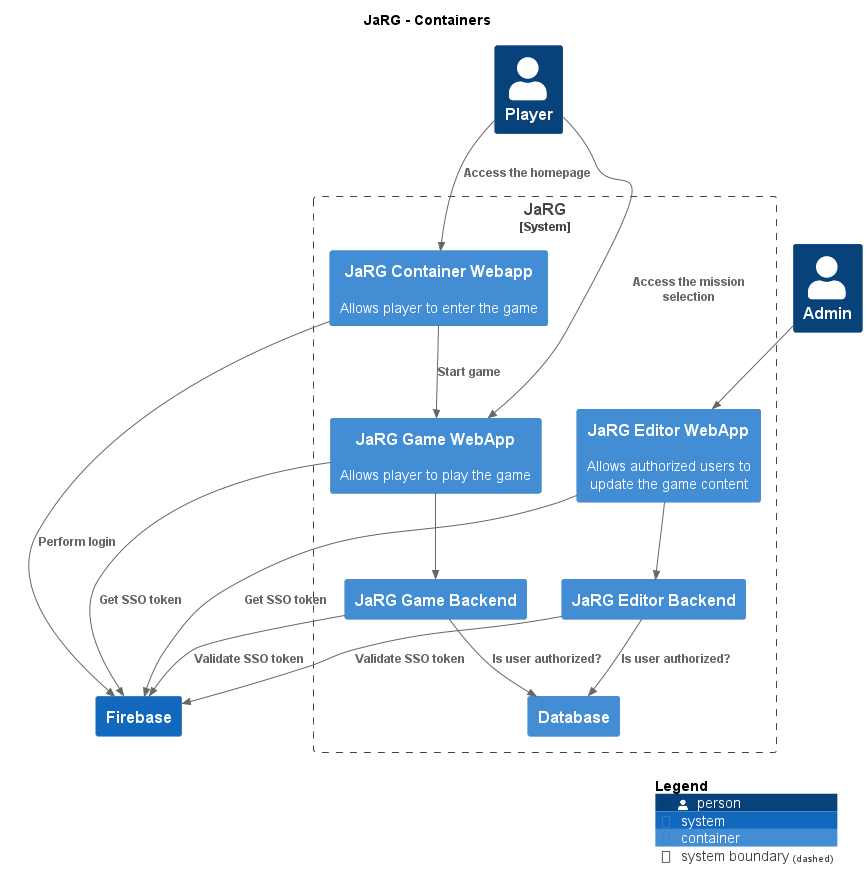
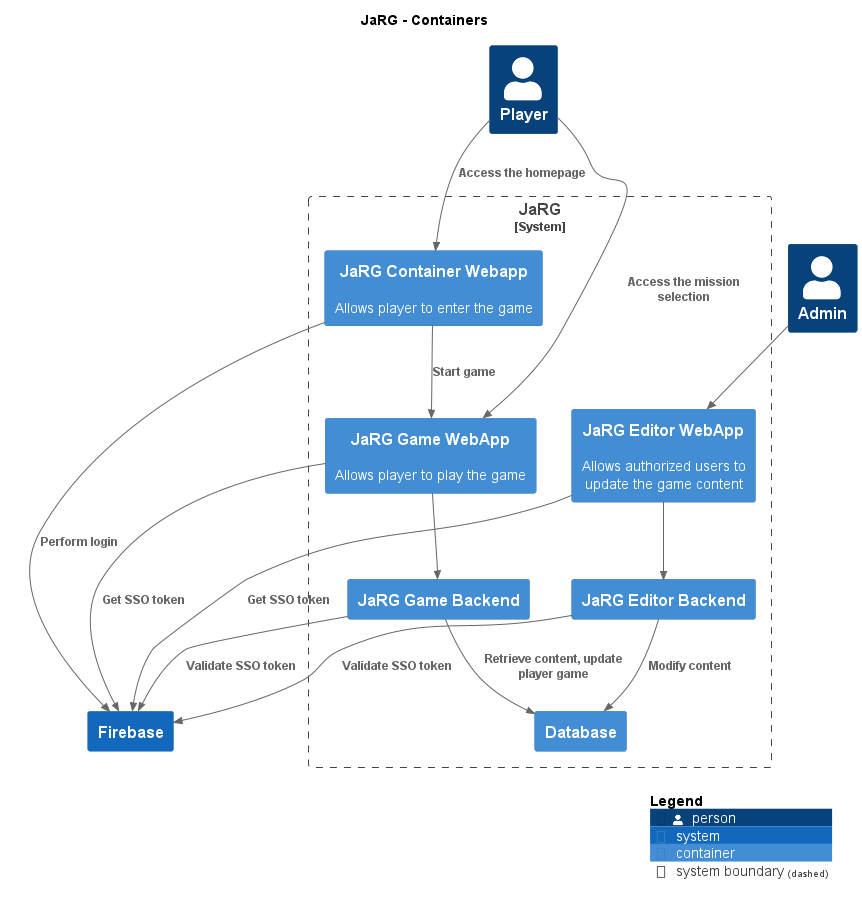
deployment view

diff --git a/docs/c4-model/software-systems/JaRG/README.md b/docs/c4-model/software-systems/JaRG/README.md
@@ -123,7 +123,7 @@ description: Component view of JaRG Game WebApp
 | JaRG | JaRG Editor Backend | Manages user accesses and grants | JaRG | JaRG Editor Backend | Verify SSO token |  |
 | JaRG | JaRG Editor Backend | Verify SSO token | JaRG | Database |  | Is user authorized? |
 | JaRG | JaRG Editor Backend | Verify SSO token | JaRG | Database | Users | Is user authorized? |
-| JaRG | JaRG Editor Backend |  | JaRG | Database |  | Is user authorized? |
+| JaRG | JaRG Editor Backend |  | JaRG | Database |  | Modify content |
 | JaRG | JaRG Editor Backend |  | JaRG | Database | Characters | Get user's missions |
 | JaRG | JaRG Editor Backend |  | JaRG | Database | Maps | Get user's missions |
 | JaRG | JaRG Editor Backend |  | JaRG | Database | Missions | Get user's missions |
@@ -155,7 +155,7 @@ description: Component view of JaRG Game WebApp
 | JaRG | JaRG Game Backend | Missions services | JaRG | JaRG Game Backend | Verify SSO token |  |
 | JaRG | JaRG Game Backend | Verify SSO token | JaRG | Database |  | Is user authorized? |
 | JaRG | JaRG Game Backend | Verify SSO token | JaRG | Database | Users | Is user authorized? |
-| JaRG | JaRG Game Backend |  | JaRG | Database |  | Is user authorized? |
+| JaRG | JaRG Game Backend |  | JaRG | Database |  | Retrieve content, update player game |
 | JaRG | JaRG Game Backend |  | JaRG | Database | Characters | Get user's missions |
 | JaRG | JaRG Game Backend |  | JaRG | Database | Maps | Get user's missions |
 | JaRG | JaRG Game Backend |  | JaRG | Database | Missions | Get user's missions |
@@ -218,7 +218,7 @@ description: Component view of JaRG Game WebApp
 | JaRG | JaRG Editor Backend |  | Firebase | Firebase Auth WebApp |  | Validate SSO token |
 | JaRG | JaRG Editor Backend |  | Firebase | Firebase Auth WebApp | User SSO token | Validate SSO token |
 | JaRG | JaRG Editor Backend |  | Firebase |  |  | Validate SSO token |
-| JaRG | JaRG Editor Backend |  | JaRG | Database |  | Is user authorized? |
+| JaRG | JaRG Editor Backend |  | JaRG | Database |  | Modify content |
 | JaRG | JaRG Editor Backend |  | JaRG | Database | Characters | Get user's missions |
 | JaRG | JaRG Editor Backend |  | JaRG | Database | Maps | Get user's missions |
 | JaRG | JaRG Editor Backend |  | JaRG | Database | Missions | Get user's missions |
@@ -262,7 +262,7 @@ description: Component view of JaRG Game WebApp
 | JaRG | JaRG Game Backend |  | Firebase | Firebase Auth WebApp |  | Validate SSO token |
 | JaRG | JaRG Game Backend |  | Firebase | Firebase Auth WebApp | User SSO token | Validate SSO token |
 | JaRG | JaRG Game Backend |  | Firebase |  |  | Validate SSO token |
-| JaRG | JaRG Game Backend |  | JaRG | Database |  | Is user authorized? |
+| JaRG | JaRG Game Backend |  | JaRG | Database |  | Retrieve content, update player game |
 | JaRG | JaRG Game Backend |  | JaRG | Database | Characters | Get user's missions |
 | JaRG | JaRG Game Backend |  | JaRG | Database | Maps | Get user's missions |
 | JaRG | JaRG Game Backend |  | JaRG | Database | Missions | Get user's missions |
@@ -288,4 +288,9 @@ description: Component view of JaRG Game WebApp
 
 ## Deployments
 
+### JaRG - Deployment - Live
+
+![deployment_jarg_live](../../images/deployment_jarg_live.png)
+
+[png](../../images/deployment_jarg_live.png) | [svg](../../images/deployment_jarg_live.svg)
 

diff --git a/docs/c4-model-scripts/README.md b/docs/c4-model-scripts/README.md
@@ -3,5 +3,5 @@
 Generator: <https://github.com/vitalegi/structurizr-md>
 
 ```
-java -cp "-Dexec.args=jarg.dsl ../c4-model/" "-Dexec.mainClass=it.vitalegi.structurizr.md.GenerateMarkdownApp"
+java -cp structurizr-md.jar "it.vitalegi.structurizr.md.GenerateMarkdownApp" jarg.dsl ../c4-model
 ```
